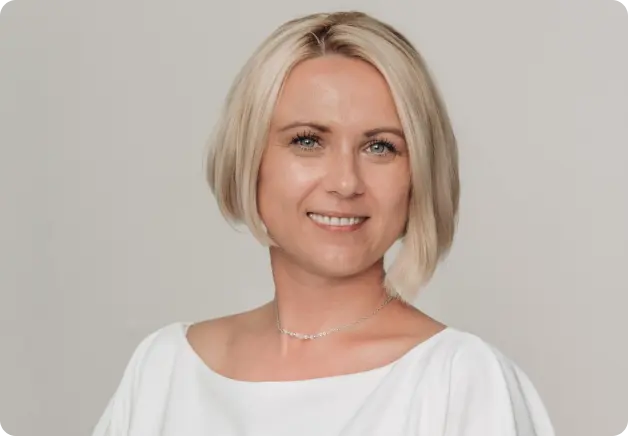
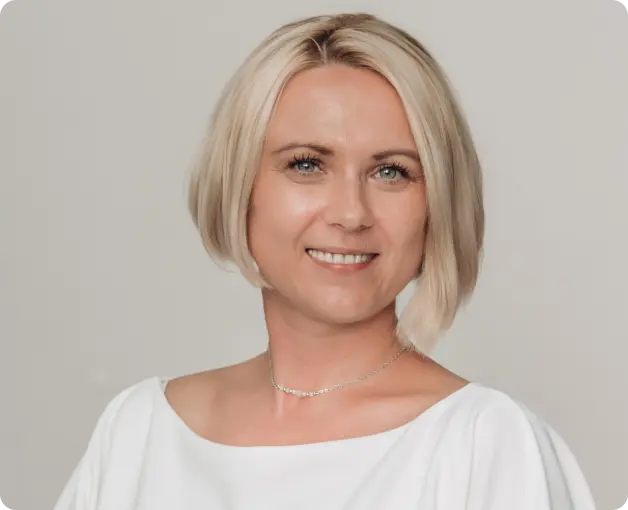
update about me

diff --git a/src/components/AboutMe/AboutMeData.js b/src/components/AboutMe/AboutMeData.js
@@ -1,13 +1,9 @@
-import OlgaDesktopWebp19201x from "../../images/desktop/olga_picture1x.webp";
-import OlgaDesktopWebp19202x from "../../images/desktop/olga_picture2x.webp";
-import OlgaDesktop19201x from "../../images/desktop/olga_picture1x.jpg";
-import OlgaMob1x from "../../images/mobile/mob_olga_picture1x.jpg";
-import OlgaMobWebp1x from "../../images/mobile/mob_olga_picture1x.webp";
-import OlgaMobWebp2x from "../../images/mobile/mob_olga_picture2x.webp";
-import OlgaTab1x from "../../images/tablet/olga_picture@1x.jpg";
+import OlgaDesktopWebp19201x from "../../images/desktop/olga_picture@1x.webp";
+import OlgaDesktopWebp19202x from "../../images/desktop/olga_picture@2x.webp";
+import OlgaMobWebp1x from "../../images/mobile/mob_olga_picture@1x.webp";
+import OlgaMobWebp2x from "../../images/mobile/mob_olga_picture@2x.webp";
 import OlgaTabWebp1x from "../../images/tablet/olga_picture@1x.webp";
 import OlgaTabWebp2x from "../../images/tablet/olga_picture@2x.webp";
-import OlgaDesktop14401x from "../../images/desktop1440/olga_picture@1x.jpg";
 import OlgaDesktop1440Webp1x from "../../images/desktop1440/olga_picture@1x.webp";
 import OlgaDesktop1440Webp2x from "../../images/desktop1440/olga_picture@2x.webp";
 
@@ -18,7 +14,7 @@ export const mediaQueries = [
     imgData: {
       srcSet: `${OlgaMobWebp2x} 2x, ${OlgaMobWebp1x} 1x`,
       sizes: "(max-width: 767px) 100vw",
-      src: OlgaMob1x,
+      src: OlgaMobWebp1x,
     },
   },
   {
@@ -27,7 +23,7 @@ export const mediaQueries = [
       srcSet: `${OlgaTabWebp2x} 2x, ${OlgaTabWebp1x} 1x`,
       type: "image/webp",
       sizes: "(min-width: 768px) 100vw (max-width: 1439px) 100vw",
-      src: OlgaTab1x,
+      src: OlgaTabWebp1x,
     },
   },
   {
@@ -36,7 +32,7 @@ export const mediaQueries = [
       srcSet: `${OlgaDesktop1440Webp2x} 2x, ${OlgaDesktop1440Webp1x} 1x`,
       type: "image/webp",
       sizes: "(min-width: 1440px) 100vw (max-width: 1919px) 100vw",
-      src: OlgaDesktop14401x,
+      src: OlgaDesktop1440Webp1x,
     },
   },
   {
@@ -45,7 +41,7 @@ export const mediaQueries = [
       srcSet: `${OlgaDesktopWebp19202x} 2x, ${OlgaDesktopWebp19201x} 1x`,
       type: "image/webp",
       sizes: "(min-width: 1920px) 100vw",
-      src: OlgaDesktop19201x,
+      src: OlgaDesktopWebp19201x,
     },
   },
 ];
@@ -66,11 +62,13 @@ export const socialLinks = [
 ];
 
 export const aboutMeListItems = [
-  "MBA Healthcare management",
+  "Бізнес-консультантка, експертка з розвитку та трансформації бізнесу, стратег з медичного менеджменту та маркетингу",
+  "20+ років в маркетингу та комунікаціях, 14 років в медичному, фармацевтичному бізнесі на керівних посадах та у бізнес- консалтингу",
+  "15 + проєктів в медичному бізнес-консалтингу",
+  "Ex-Head of marketing/СBDO R+ medіcal network, Ex-Head of marketing MDM Group",
   "Викладачка медичного маркетингу Бізнес-школа УКУ (LvBS)",
-  'Експертка в "Центр Розвитку Громадського Здоров\'я УКУ"',
-  "Бізнес-консультантка, стратег з медичного маркетингу",
-  'Керівниця проєкту "Стетоскоп" - телеграм канал про медичний менеджмент та маркетингу',
-  "Більше 18 років досвіду в маркетингу та комунікаціях, з них більше 10 років досвіду в медичному та фармацевтичному бізнесі на керівних посадах",
-  "Використання принципів доказової медицини",
+  "Експертка та тренерка в Центр Розвитку Громадського Здоров'я УКУ",
+  "Ведуча подкастів «Відверто про медичний бізнес» спільно з DOC.UA",
+  "Прихильниця процесного підходу та автоматизації",
+  "MBA Healthcare management",
 ];

diff --git a/src/components/AboutMe/AboutMe.styled.js b/src/components/AboutMe/AboutMe.styled.js
@@ -31,7 +31,9 @@ export const SectionAboutMeTitle = styled.h2`
   }
 
   @media screen and (min-width: 1440px) {
-    margin-bottom: 16px;
+    font-size: 36px;
+    line-height: 48px;
+    margin-bottom: 24px;
   }
 
   @media screen and (min-width: 1920px) {
@@ -53,9 +55,6 @@ export const SectionAboutMeDiv = styled.div`
     flex-direction: row;
     justify-content: space-between;
   }
-
-  @media screen and (min-width: 1920px) {
-  
 `;
 
 export const SectionAboutMeImg = styled.img`
@@ -64,14 +63,12 @@ export const SectionAboutMeImg = styled.img`
 
 export const SectionAboutMeDivOl = styled.div`
   max-width: 327px;
-  // width: calc((100% - 24px) / 2);
   padding: 24px;
   border-radius: 16px;
   background: var(--background-white, #fcfcfc);
   box-shadow: 0px 0px 8px 0px rgba(27, 54, 65, 0.08);
 
   @media screen and (min-width: 768px) {
-    // width: calc((100% - 24px) / 2);
     max-width: 0;
     min-width: 688px;
     padding: 40px;
@@ -93,8 +90,8 @@ export const SectionAboutMeHOl = styled.h3`
   font-size: 24px;
   font-style: normal;
   font-weight: 600;
-  line-height: 1.33;
-  margin-bottom: 16px;
+  line-height: 32px;
+  margin-bottom: 8px;
 
   @media screen and (min-width: 768px) {
     color: var(--typography-black);
@@ -104,11 +101,12 @@ export const SectionAboutMeHOl = styled.h3`
 
   @media screen and (min-width: 1440px) {
     font-size: 36px;
+    line-height: 48px;
   }
 
   @media screen and (min-width: 1920px) {
     font-size: 48px;
-    line-height: 1.2;
+    line-height: 56px;
   }
 `;
 
@@ -119,23 +117,20 @@ export const SectionAboutMePol = styled.p`
   font-style: normal;
   font-weight: 600;
   line-height: 1.5;
-  margin-bottom: 24px;
+  margin-bottom: 16px;
 
   @media screen and (min-width: 768px) {
     font-size: 20px;
     line-height: 1.4;
-    margin-bottom: 16px;
   }
 
   @media screen and (min-width: 1440px) {
     line-height: 24px;
-    margin-bottom: 24px;
   }
   @media screen and (min-width: 1920px) {
     color: var(--primary-bluedark);
     font-size: 24px;
     line-height: 32px;
-    margin-bottom: 40px;
   }
 `;
 
@@ -149,7 +144,7 @@ export const SectionAboutMeList = styled.li`
   font-size: 14px;
   font-style: normal;
   font-weight: 500;
-  line-height: 1.4;
+  line-height: 20px;
 
   &::before {
     content: "\\2022";
@@ -161,7 +156,7 @@ export const SectionAboutMeList = styled.li`
 
   @media screen and (min-width: 768px) {
     font-size: 15px;
-    line-height: 1.46;
+    line-height: 22px;
   }
 
   @media screen and (min-width: 1440px) {
@@ -183,7 +178,6 @@ export const SectionAboutMeAdress = styled.ul`
   align-items: center;
 
   @media screen and (min-width: 768px) {
-    margin-top: 16px;
     flex-direction: row;
     align-items: baseline;
   }
@@ -192,7 +186,7 @@ export const SectionAboutMeAdress = styled.ul`
     margin-top: 24px;
   }
   @media screen and (min-width: 1920px) {
-    margin-top: 42px;
+    margin-top: 40px;
     display: flex;
     flex-direction: row;
     gap: 60px;
@@ -224,6 +218,7 @@ export const SectionAboutMeLink = styled.a`
   }
 
   @media screen and (min-width: 768px) {
+    padding: 8px 0;
     font-size: 18px;
     line-height: 1.33;
   }
@@ -243,13 +238,11 @@ export const SectionAboutMeSvg = styled.svg`
 `;
 
 export const SectionAboutMeDivWidth = styled.div`
-  // width: calc((100% - 24px) / 2);
   max-width: 327px;
   border-radius: 16px;
 
   @media screen and (min-width: 768px) {
     max-width: 0;
-    // width: calc((100% - 24px) / 2);
     min-width: 688px;
     border-radius: 16px;
   }
